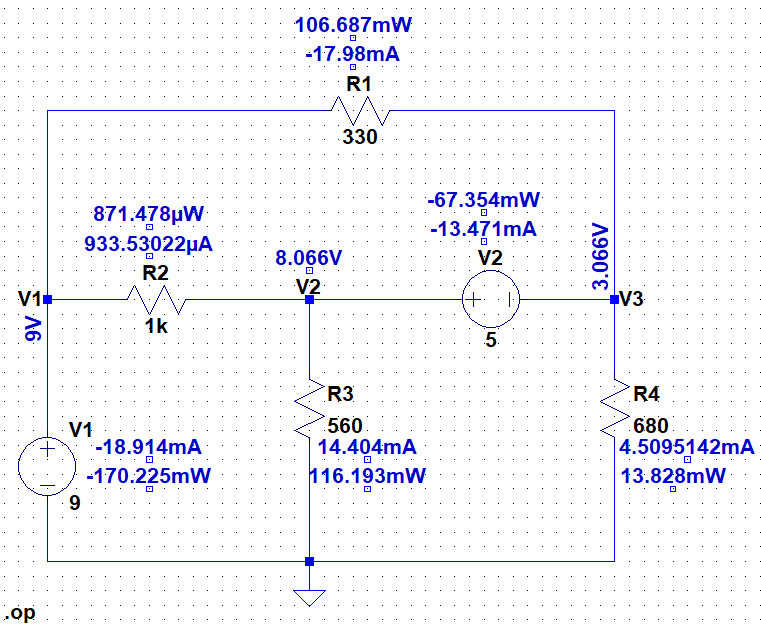
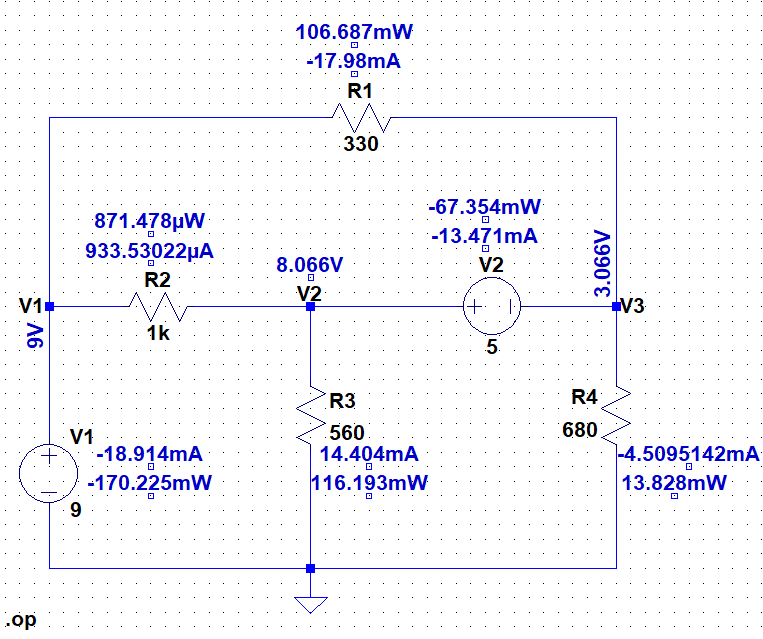
cuestionario, imagenes y simulacion

diff --git a/circuitos/lab6/lab6.tex b/circuitos/lab6/lab6.tex
@@ -33,7 +33,7 @@
     Sabrina Erika Pensamiento Robledo\\[4ex]
     Salvador Palos Gil\\[18ex]
     }
-    \large{Elaboration:April 24, 2018 \hspace{8em} Due date:May 1, 2018}
+    \large{Elaboration: April 24, 2018 \hspace{8em} Due date: May 1, 2018}
 \end{titlepage}
 \tableofcontents
 \newpage
@@ -56,11 +56,11 @@ We wired a circuit as shown in the diagram in figure \ref{fig:1}
     \caption{Circuit diagram}
     \label{fig:1}
 \end{figure}
-Then, we measured voltage values in each node and currents on each resistor and each voltage
+Then, we measured voltage values in each node and currents on each resistor and voltage
 source. Afterwards, we measured the voltage in each resistor so we can calculate the power values for each
 component.
 \subsubsection{Measurements}
-First, in order to use nodal analysis to find the voltages in the nodes of our circuit, first we
+First, in order to use nodal analysis to find the voltages in the nodes of our circuit, we
 need to declare the circuit currents, in this case, we do it as shown in figure \ref{fig:2}
 \begin{figure}[H]
     \centering
@@ -89,14 +89,14 @@ need to declare the circuit currents, in this case, we do it as shown in figure 
     \caption{Diagram with nodes and currents}
     \label{fig:2}
 \end{figure}
-Also, looking in the circuit, we note that our circuit has a supernode going between $V_2$ and
+Also, looking into the circuit, we note that this has a supernode going between $V_2$ and
 $V_3$, therefore:
 \[V_2-V_3=\SI{5}{\volt}\]
 \begin{equation}
     V_2 = \SI{5}{\volt}+V_3
     \label{eq:1}
 \end{equation}
-Then, applying \textit{KCL} in the supernode:
+Then, applying \textit{KCL}\footnote{Kirchhoff's Current Law} in the supernode:
 \[I_1+I_2=1_2+I_4\]
 Using Ohm's Law to express the currents:
 \begin{gather*}
@@ -128,22 +128,22 @@ By using \eqref{eq:1}, $V_2$ is given by:
 \end{gather*}
 The currents in the resistors are, for $R_1$:
 \begin{gather*}
-    I_{R1}=\frac{V_3-V_1}{R_1}=\frac{3.066-9}{\SI{330}{\ohm}}\\
+    I_{R1}=\frac{V_3-V_1}{R_1}=\frac{\SI{3.066}{\volt}-\SI{9}{\volt}}{\SI{330}{\ohm}}\\
     \therefore I_{R1}=\SI{-17.982}{\milli\ampere}
 \end{gather*}
 For $R_2$:
 \begin{gather*}
-    I_{R1}=\frac{V_1-V_2}{R_2}=\frac{9-8.066}{\SI{1}{\kilo\ohm}}\\
+    I_{R1}=\frac{V_1-V_2}{R_2}=\frac{\SI{9}{\volt}-\SI{8.066}{\volt}}{\SI{1}{\kilo\ohm}}\\
     \therefore I_{R1}=\SI{934}{\micro\ampere}
 \end{gather*}
 For $R_3$:
 \begin{gather*}
-    I_{R3}=\frac{V_2}{R_3}=\frac{8.066}{\SI{560}{\ohm}}\\
+    I_{R3}=\frac{V_2}{R_3}=\frac{\SI{8.066}{\volt}}{\SI{560}{\ohm}}\\
     \therefore I_{R3}=\SI{14.403}{\milli\ampere}
 \end{gather*}
 For $R_4$:
 \begin{gather*}
-    I_{R4}=\frac{-V_3}{R_4}=\frac{-3.066}{\SI{680}{\ohm}}\\
+    I_{R4}=\frac{-V_3}{R_4}=\frac{\SI{-3.066}{\volt}}{\SI{680}{\ohm}}\\
     \therefore I_{R4}=\SI{-4.509}{\milli\ampere}
 \end{gather*}
 Current values for each current source are given as follows. For $V_{S1}$:
@@ -216,7 +216,7 @@ For $V_{S2}$:
         $I_{R1}$ & -17.982 & -17.780 & -17.980\\\hline
         $I_{R2}$ & 0.934 & 0.940 & 0.871\\\hline
         $I_{R3}$ & 14.403 & 14.408& 14.404\\\hline
-        $I_{R4}$ & -4.509 & 4.550 & 4.509\\\hline
+        $I_{R4}$ & -4.509 & 4.550 & -4.509\\\hline
         $I_{S1}$ & -18.916& -18.240& -18.914\\\hline
         $I_{S2}$ & -13.473 & -14.050& -13.471\\\hline
     \end{tabular}
@@ -239,16 +239,17 @@ For $V_{S2}$:
     \caption{Calculated, measured and theoretical power values for each component}
 \end{figure}
 \section{Questions}
-\textit{\textbf{Explain the operation of the oscilloscope}}\\
-%ans
-\textit{\textbf{What's the function of the signal generator?}}\\
-%ans
-\textit{\textbf{What are the Lissajous graphs for?}}\\
-%ans
-\textit{\textbf{What are the operating modes Y (t) and XY used for?}}\\
-%ans
-\textit{\textbf{Which means by coupling in D.C.?}}\\
-%ans
+\textit{\textbf{Which is a node in an electric circuit?}}\\
+A node is a point where two or more components have a common connection. Corresponds to a union of wires made of conductive material that have an electrical resistance close to 0.
+\textit{\textbf{What is the nodal voltage?}}\\
+The nodal voltage is that voltage that is in each node since this is different in each one of the nodes of the analysis
+\textit{\textbf{What is called a reference node?}}\\
+The reference node is the one that contains most of the elements connected to it and is chosen to simplify the system of equations, since this is given a value of 0 volts
+describe what the nodal analysis method consists of in the theory of circuits?
+\textit{\textbf{Describe what the nodal analysis method consists of in the theory of circuits?}}\\
+In the analysis of nodes, an equation is written for each node, provided that the sum of these currents is equal to zero at any moment, so that a load Q can never be accumulated in a node. These currents are written in terms of the voltages of each node of the circuit. Thus, in each relation the current must be given in terms of the tension that is our unknown, by the conductance.
+\textit{\textbf{What are the advantages of applying the nodal analysis method?}}\\
+The advantages of using the method of node analysis is that we can calculate the value of the voltages in each one more easily with a system of linear equations.
 \section{Conclusions}
 {\large Sabrina:}\\
 %
@@ -257,5 +258,19 @@ For $V_{S2}$:
 %
 \\[2ex]
 {\large Sebastián:}\\
-%texto
+This time we used nodal analysis to determine voltages in each node (except ground), 
+in order to do this, we proposed currents in a way that all nodes complied with Kirchhoff's
+current law. Then we were able to start our analysis, however, our circuit had the special
+case of \textit{supernode}, this was useful because we had an extra equation. In the
+end, our mathematical model just had one variable, after factoring and doing some
+operations, we had the voltage value of a node, then, using the other expressions, we
+finally had our three voltages. Finally, we used this values to determine current and power
+values in all components. 
+This kind of analysis was easier to do mathematically speaking, because we
+didn't had to solve a linear system of equations, nonetheless, we had to manipulate lots
+of rational numbers, so we had to do some extra work in order to solve our equation.
+At the end, when we compared our theoretical values and the ones we took from measuring the
+circuit, all of our values were quite close, at least in magnitude, however, the measured
+current value in $R_4$ differed from the theoretical and simulated value in sign, this could be
+attributed to a bad connection of the ammeter in the circuit. 
 \end{document}
